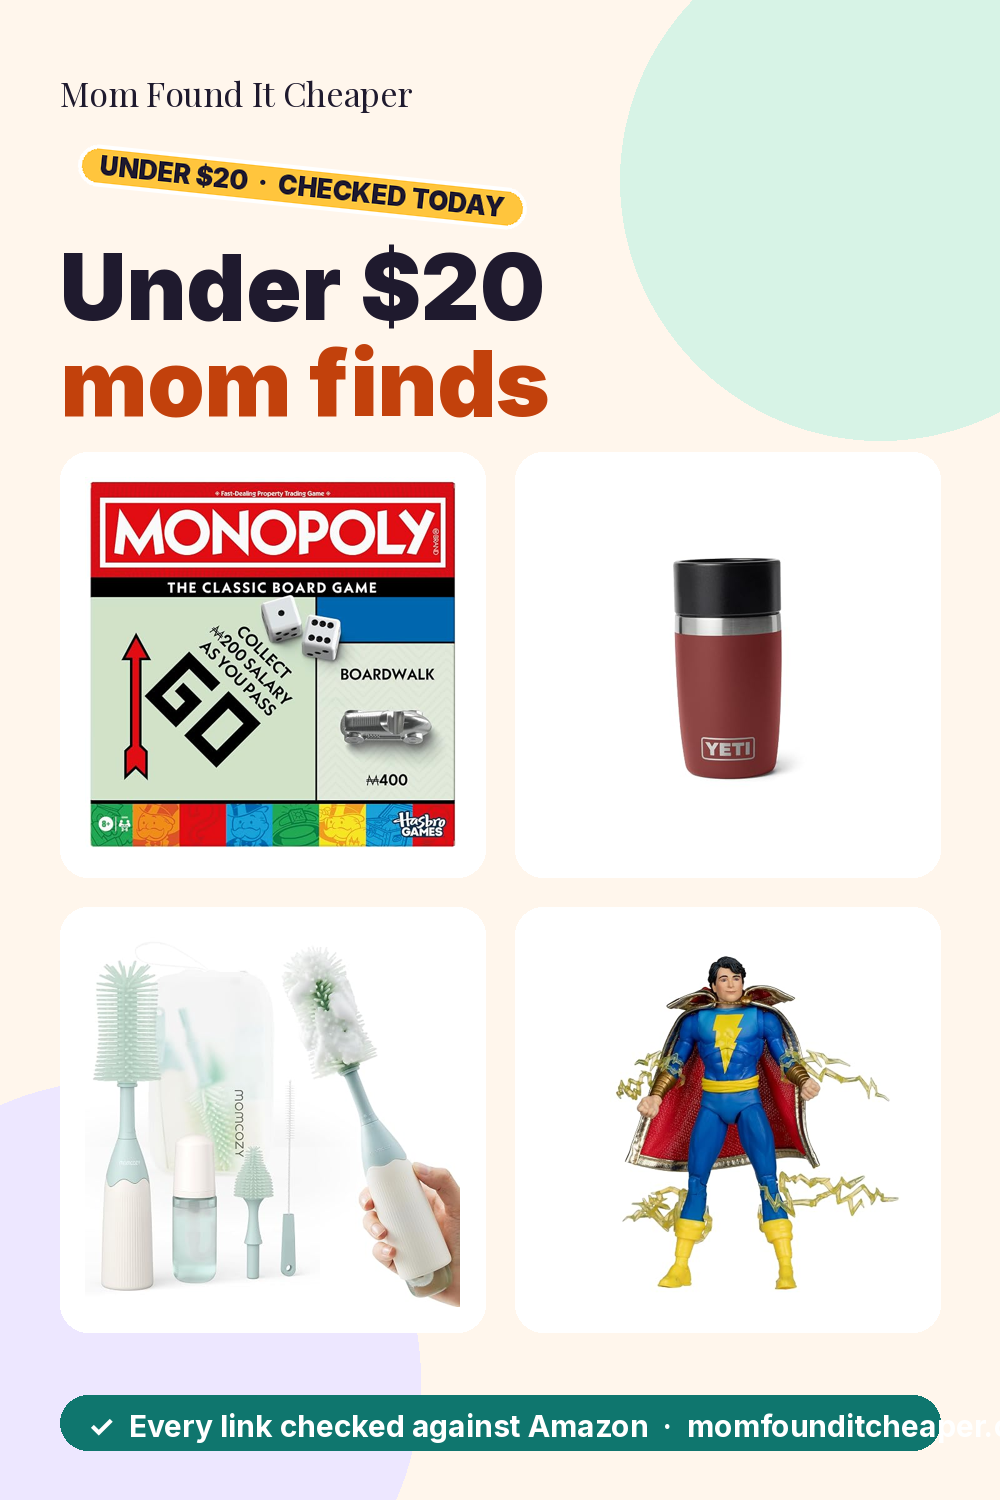
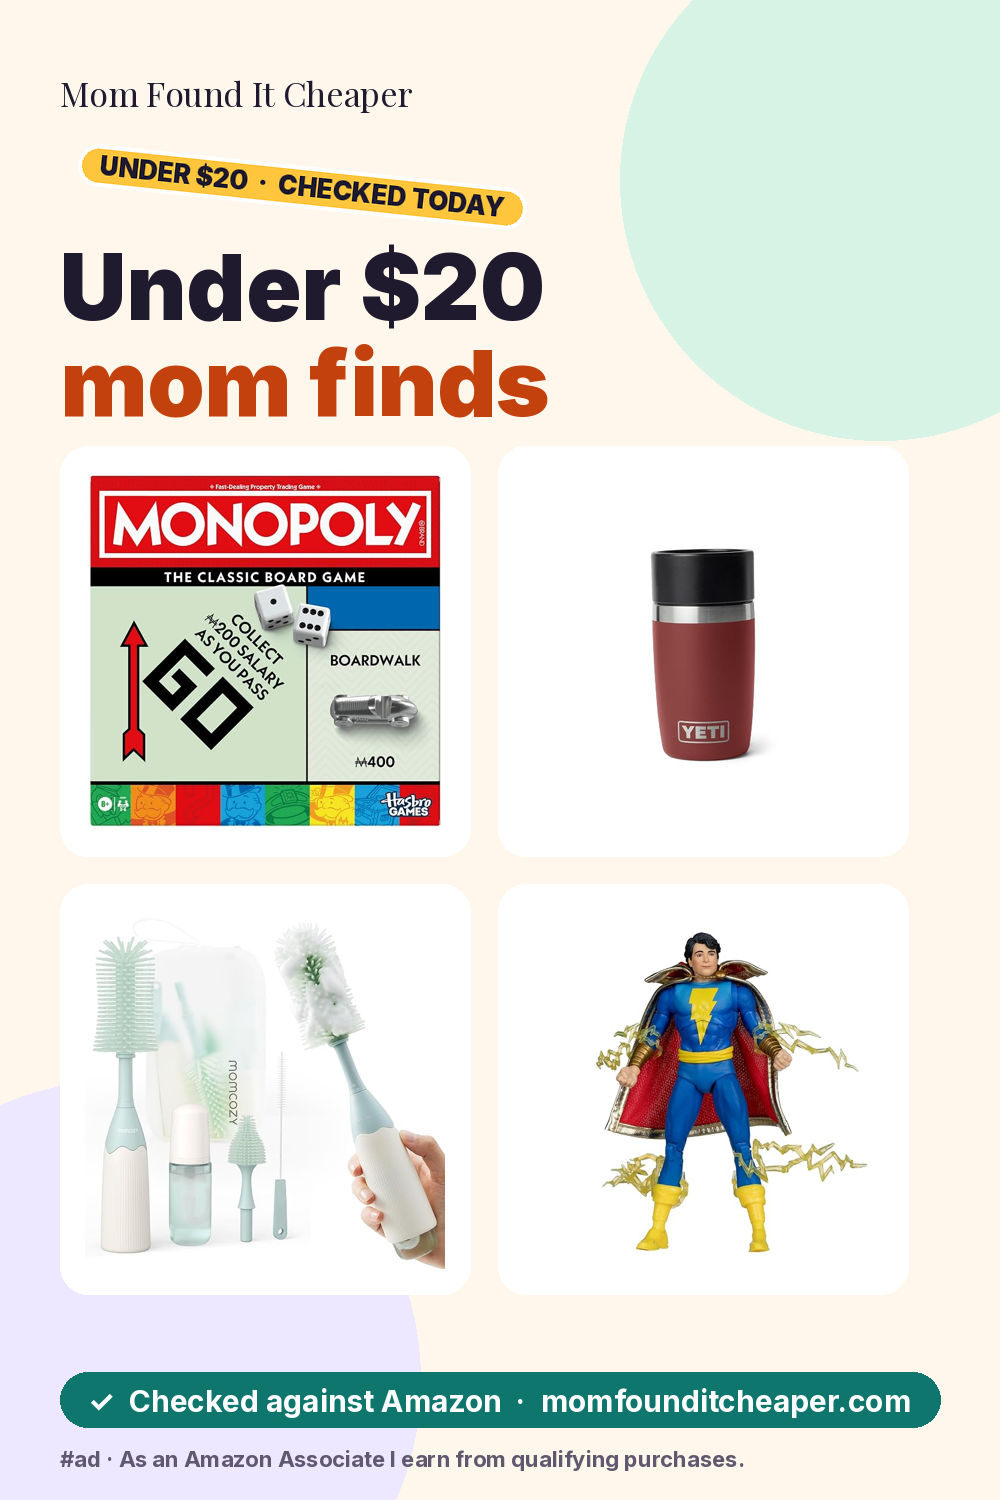
Grok QA fixes: pin footer auto-fit + on-image Associates disclosure, strip zero-width chars, fuller titles, 24-hour check wording
Claude-Session: https://claude.ai/code/session_013VSLL9D9UfzTwCfefZ99QJ

diff --git a/build_site.py b/build_site.py
@@ -267,7 +267,10 @@ def card(d, history, tested, rank=0, idsuffix="", in_tier=False):
     code = d.get("code", "")
     real_code = bool(code and code != "w/ code" and code.lower() in str(_mm.get("promo", "")).lower())
     _th = thumb_for(d)
-    title = _amz_title(d) or no_price_title(d["title"])
+    _at = _amz_title(d)
+    _dt = no_price_title(d["title"])
+    title = _at if _at and (len(_at.split()) >= 3 or len(_dt.split()) < 3) else (_dt or _at)   # "Mellow Gold" -> fuller deal title
+    title = re.sub(r"[\u200b\u200c\u200d\ufeff]", "", title)
     title = re.sub(r"\b(?=[A-Z0-9-]{5,}\b)(?=[A-Z0-9-]*\d)(?=[A-Z0-9-]*[A-Z])[A-Z0-9-]+\b", "", title)   # drop model codes like 32516HD
     title = re.sub(r"\s{2,}", " ", title).strip(" ,-")
     tags = " ".join(filter(None, ["has-code" if real_code else "", "has-coupon" if d.get("coupon") else "",
@@ -354,7 +357,7 @@ section{margin-top:26px}h2{font-size:32px;margin:0 0 6px;letter-spacing:-.01em}
 .ph img{width:100%;aspect-ratio:1/1;object-fit:contain;display:block;background:#fff}
 .ph .stk{position:absolute;top:10px;left:10px}
 .tier{font-size:32px;font-weight:900;letter-spacing:-.03em;color:var(--ink);line-height:1;font-variant-numeric:tabular-nums;white-space:nowrap}.top5 .tier{font-size:28px}.tier.small{font-size:22px}
-.card h3{font-size:17px;line-height:1.3;margin:0;font-weight:600;display:-webkit-box;-webkit-line-clamp:2;-webkit-box-orient:vertical;overflow:hidden}
+.card h3{font-size:17px;line-height:1.3;margin:0;font-weight:600;display:-webkit-box;-webkit-line-clamp:3;-webkit-box-orient:vertical;overflow:hidden}
 .proof{display:flex;gap:8px;flex-wrap:wrap;font-size:12px;align-items:center;min-height:16px}
 .chk{background:var(--green);color:#fff;padding:3px 8px;border-radius:20px;font-weight:600;white-space:nowrap}
 .fact{color:var(--muted);font-weight:500}.saved:empty{display:none}
@@ -532,7 +535,7 @@ def top5(picked, history, tested):
         return ""
     cards = "".join(card(d, history, tested, rank=i, idsuffix="-t5") for i, d in enumerate(best, 1))
     return (f'<section class="top5" id="top5"><h2>Today\'s Top 5</h2>'
-            f'<p class="sub">Five I\'d buy today. Each link checked against Amazon today.</p>'
+            f'<p class="sub">Five I\'d buy today. Each link checked against Amazon in the last 24 hours.</p>'
             f'<div class="grid">{cards}</div></section>')
 
 
@@ -567,7 +570,7 @@ def tier_sections(picked, history, tested):
         nav.append(f'<a href="#{key}">{html.escape(label)} <small>{len(items)}</small></a>')
         cards = "".join(card(d, history, tested, idsuffix="-" + key, in_tier=True) for d in items)
         out.append(f'<section class="tier-sec" id="{key}"><h2>{html.escape(label)} <span class="stk">{len(items)} DEALS</span></h2>'
-                   f'<p class="sub">Checked against Amazon today. Prices can move; tap to see the live price.</p>'
+                   f'<p class="sub">Checked against Amazon in the last 24 hours. Prices move; tap for the live price.</p>'
                    f'<div class="grid">{cards}</div></section>')
     return f'<nav class="tiernav" aria-label="Price tiers">{"".join(nav)}</nav>' + "".join(out)
 
@@ -649,7 +652,7 @@ def main():
 <header><div class="hero"><div class="hero-txt"><div class="wordmark">Mom Found It Cheaper</div>
 <span class="stk hero-stk">{hero_sticker()}</span>
 <h1>{hero_hook()}</h1>
-<p class="proofline">&#10003; Every link checked against Amazon today{(' &middot; ' + _checked_label(_latest_meta()).replace('Checked ', '')) if _latest_meta().get('checked') else ''}. I'm Mia. Tap any card for today's Amazon price.</p>
+<p class="proofline">&#10003; Every link checked against Amazon in the last 24 hours{(' &middot; ' + _checked_label(_latest_meta()).replace('Checked ', '')) if _latest_meta().get('checked') else ''}. I'm Mia. Tap any card for today's Amazon price.</p>
 {signup_html()}
 <a class="join" href="#top5">See today's 5 &darr;</a></div>
 <img class="scene" src="mia-scene.jpg" width="1428" height="803" alt="Mia, the mom behind Mom Found It Cheaper, holding a stack of checked delivery boxes" fetchpriority="high"></div></header>

diff --git a/make_pins.py b/make_pins.py
@@ -88,11 +88,30 @@ def base(title_lines, label):
     return img, y
 
 
+def footer(img):
+    """Green proof pill that always fits, plus the Associates disclosure on the image itself."""
+    d = ImageDraw.Draw(img)
+    text = "✓  Checked against Amazon  ·  momfounditcheaper.com"
+    size = 30
+    while size > 18 and d.textlength(text, font=font(B.FONT_TEXT, size, "Bold")) > 840:
+        size -= 1
+    f = font(B.FONT_TEXT, size, "Bold")
+    d.rounded_rectangle([60, 1372, 940, 1427], radius=28, fill=B.GREEN)
+    d.text((88, 1372 + (55 - size) // 2 - 2), text, font=f, fill=(255, 255, 255))
+    d.text((60, 1445), "#ad · As an Amazon Associate I earn from qualifying purchases.", font=font(B.FONT_TEXT, 22, "Bold"), fill=B.MUTED)
+
+
+def clean_name(alt):
+    short = re.sub(r"[\u200b\u200c\u200d\ufeff]", "", alt)
+    short = re.sub(r"\b(?=[A-Z0-9-]{5,}\b)(?=[A-Z0-9-]*\d)[A-Z0-9-]+\b", "", short)
+    return re.sub(r"\s{2,}", " ", short).strip(" ,-")
+
+
 def tier_pin(key, label, items):
     img, y = base([label, "mom finds"], label)
     d = ImageDraw.Draw(img)
     # 2x2 photo grid
-    gx, gy, cell, gap = 60, y + 30, 425, 30
+    gx, gy, cell, gap = 60, y + 24, 410, 28
     for i, (src, alt) in enumerate(items[:4]):
         x = gx + (i % 2) * (cell + gap)
         yy = gy + (i // 2) * (cell + gap)
@@ -102,16 +121,12 @@ def tier_pin(key, label, items):
             img.paste(p, (x + (cell - p.width) // 2, yy + (cell - p.height) // 2))
         except Exception:
             pass
-    d = ImageDraw.Draw(img)
-    f = font(B.FONT_TEXT, 30, "Bold")
-    d.rounded_rectangle([60, 1395, 940, 1450], radius=28, fill=B.GREEN)
-    d.text((88, 1407), "✓  Every link checked against Amazon  ·  momfounditcheaper.com", font=f, fill=(255, 255, 255))
+    footer(img)
     return img
 
 
 def product_pin(src, alt, label, key):
-    short = re.sub(r"\b(?=[A-Z0-9-]{5,}\b)(?=[A-Z0-9-]*\d)[A-Z0-9-]+\b", "", alt)
-    short = re.sub(r"\s{2,}", " ", short).strip(" ,-")
+    short = clean_name(alt)
     img = Image.new("RGB", (W, H), B.CREAM)
     d = ImageDraw.Draw(img)
     d.ellipse([620, -120, 1140, 400], fill=B.MINT)
@@ -130,8 +145,7 @@ def product_pin(src, alt, label, key):
         d.text((60, y), line, font=f, fill=B.INK)
         y += 64
     d.text((60, y + 10), "Mia found it cheaper. Tap for today's price.", font=font(B.FONT_TEXT, 30, "Bold"), fill=B.TANGERINE)
-    d.rounded_rectangle([60, 1395, 940, 1450], radius=28, fill=B.GREEN)
-    d.text((88, 1407), "✓  Checked against Amazon  ·  momfounditcheaper.com", font=font(B.FONT_TEXT, 30, "Bold"), fill=(255, 255, 255))
+    footer(img)
     return img
 
 
@@ -147,6 +161,7 @@ def main():
         for i, (src, alt) in enumerate(items[:2], 1):
             pp = OUT / f"pin_{key}_{i}.png"
             product_pin(src, alt, label, key).save(pp, optimize=True)
+            alt = clean_name(alt)
             rows.append({"title": f"{alt[:80]} — {label}", "media_url": pp.name, "pinterest_board": "Mom Found It Cheaper",
                          "description": f"{alt[:120]}. {label} on Amazon when I checked this morning. Tap for today's price. #ad As an Amazon Associate I earn from qualifying purchases.",
                          "link": f"{SITE}#{key}", "keywords": f"{label.lower()}, amazon finds, mom deals"})

diff --git a/make_queue.py b/make_queue.py
@@ -48,11 +48,11 @@ def tier_posts():
         m = re.search(r'<section class="tier-sec" id="%s">(.*?)</section>' % key, html_, re.S)
         if not m:
             continue
-        titles = [html.unescape(t) for t in re.findall(r"<h3>([^<]+)</h3>", m.group(1))][:5]
+        titles = [re.sub(r"[\u200b\u200c\u200d\ufeff]", "", html.unescape(t)).strip() for t in re.findall(r"<h3>([^<]+)</h3>", m.group(1))][:5]
         if len(titles) < 3:
             continue
         lines = "\n".join(f"{i}. {t}" for i, t in enumerate(titles, 1))
-        out.append({"tier": label, "text": f"{label} finds today (every link checked against Amazon this morning):\n{lines}\n\n"
+        out.append({"tier": label, "text": f"{label} finds today (each link checked against Amazon before posting; prices can change):\n{lines}\n\n"
                                            f"All of them, with links: {SITE}#{key}\n{DISCLOSURE}"})
     return out
 

diff --git a/queue/QUEUE.md b/queue/QUEUE.md
@@ -47,7 +47,7 @@ As an Amazon Associate I earn from qualifying purchases.
 ## Price-tier posts for the Page (4)
 ### Under $10
 ```
-Under $10 finds today (every link checked against Amazon this morning):
+Under $10 finds today (each link checked against Amazon before posting; prices can change):
 1. Disney Frozen Sven Crystal 3D Puzzle Deluxe
 2. Fisher-Price Wood Pretend Play Toy Fruit Pie
 3. RoseArt Hobby Haven Greentree Garden Center 1000 Piece Jigsaw Puzzle
@@ -60,7 +60,7 @@ As an Amazon Associate I earn from qualifying purchases. #ad
 
 ### Under $20
 ```
-Under $20 finds today (every link checked against Amazon this morning):
+Under $20 finds today (each link checked against Amazon before posting; prices can change):
 1. Monopoly Board Game
 2. YETI Rambler 8 oz Travel Bottle
 3. Momcozy Baby Bottle Brush Kit
@@ -73,12 +73,12 @@ As an Amazon Associate I earn from qualifying purchases. #ad
 
 ### Under $25
 ```
-Under $25 finds today (every link checked against Amazon this morning):
-1. Masters of the Universe 2026 Movie He-Man Power of Grayskull Sword
+Under $25 finds today (each link checked against Amazon before posting; prices can change):
+1. Masters of the Universe 2026 Movie He-Man Power of Grayskull Sword
 2. LEGO Speed Champions Ferrari 499P 77261
 3. YETI Rambler 20 oz Tumbler with Straw Lid
 4. OBD2 Scanner Diagnostic Tool
-5. Mellow Gold
+5. Beck: Mellow Gold (180-gram Vinyl LP)
 
 All of them, with links: https://momfounditcheaper.com/#under-25
 As an Amazon Associate I earn from qualifying purchases. #ad
@@ -86,7 +86,7 @@ As an Amazon Associate I earn from qualifying purchases. #ad
 
 ### Under $50
 ```
-Under $50 finds today (every link checked against Amazon this morning):
+Under $50 finds today (each link checked against Amazon before posting; prices can change):
 1. LEGO ONE PIECE Tony Tony Chopper 75643
 2. ECR4Kids Adjustable Wooden Sit or Step Stool with Storage
 3. Gibson Home Rothernberg Plates and Bowls 18 Piece Porcelain White Dinnerware Set
